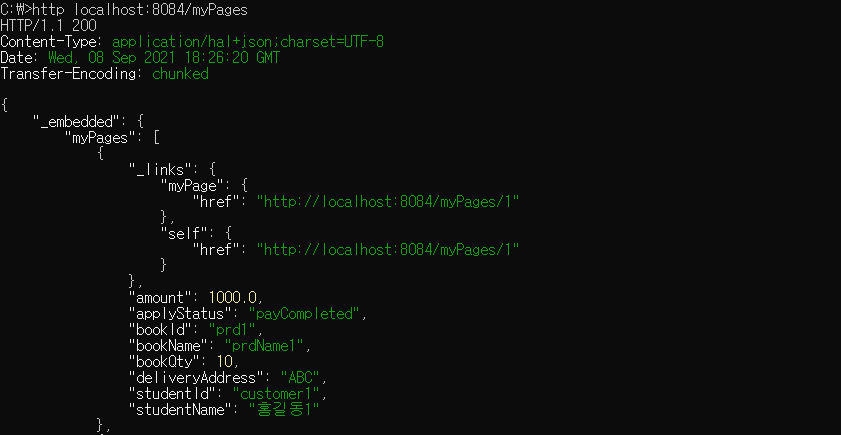
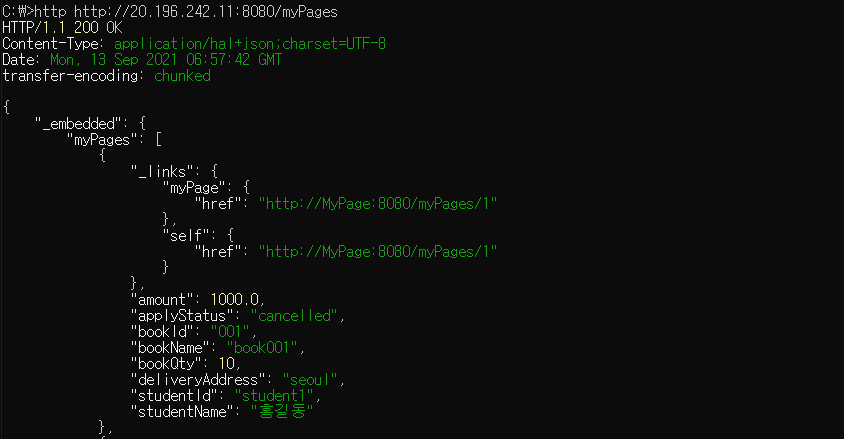
33

diff --git a/README.md b/README.md
@@ -388,16 +388,13 @@ http http://20.196.242.11:8080/myPages
 신청 / 결제 / 배송 서비스의 전체 현황 및 상태 조회를 제공하기 위해 MyPage를 구성하였다.
 
 신규 교재 신청 정보를 등록한다.
+
 **Apply 등록**
 
 ![증빙3](https://github.com/jinmojeon/elearningStudentApply/blob/main/Images/2-1-ddd-reg.png)
 
-위와 같이 하게되면 Apply > Pay > Delivery > MyPage 순서로 신청이 처리된다.
-
-![증빙3](https://github.com/jinmojeon/elearningStudentApply/blob/main/Images/4-0-apply.png)
-
-
 MyPage CQRS 결과는 아래와 같다
+
 **Apply 실행 후 MyPages**
 
 ![증빙4](https://github.com/jinmojeon/elearningStudentApply/blob/main/Images/4-1-apply.png)
@@ -408,7 +405,16 @@ Correlation을 Key를 활용하기 위해 Id를 Key값으로 사용하였으며 
 
 신청 취소가 되면 ApplyStatus가 deliveryCancelled로 Update 되는 것을 볼 수 있다.
 
+**Apply서비스 교재 신청**
+```
+http PUT http://20.196.242.11:8080/applies/1 studentId="student1" studentName="홍길동" qty=10 amount=1000 applyStatus="cancelled" address="seoul" bookId="001" bookName="book001"
+```
+
 ![증빙4](https://github.com/jinmojeon/elearningStudentApply/blob/main/Images/4-2-apply.png)
+
+위와 같이 하게되면 Apply > Pay > Delivery > MyPage 순서로 신청이 처리된다.
+
+![증빙4](https://github.com/jinmojeon/elearningStudentApply/blob/main/Images/4-3-apply.png)
 
 위 결과로 서로 다른 마이크로 서비스 간에 상호 연결되어 있음을 알 수 있다.
 
